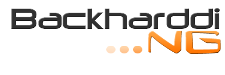
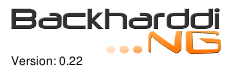
Eliminado botón de sincronización de la interfaz web. Se mantiene la selección de clientes al actualizarse la lista en la interfaz web. Se mantiene el scroll de la ventana de grupos al actualizarse la lista en la interfaz web.

Changed region(s): [[0.0311, 0.7467, 0.3733, 0.88]]

diff --git a/src/backhardding/html/monitor.js b/src/backhardding/html/monitor.js
@@ -25,71 +25,70 @@ var groupStore = new Ext.data.GroupingStore({
     sortInfo: { fieldname: 'group', direction: 'ASC' }
 });
 
-Ext.onReady(function() {
-    var clientView = new Ext.DataView({
-        cls: 'client-view',
-        tpl: '<tpl for=".">' +
-        		'<tpl if="status == \'Conectado\'">' +
-        			'<div class="client_source"><img class="icon_client" src="resources/images/default/s.gif"/>{name}</div>' +
-        		'</tpl>' +
-        		'<tpl if="status != \'Conectado\'">' +
-        			'<div class="client_source client_disconnected"><img class="icon_client" src="resources/images/default/s.gif"/>{name}</div>' +
-        		'</tpl>' +
-        	 '</tpl>',
-    	itemSelector: "div.client_source",
-    	selectedClass: "client_selected",
-    	overClass: "client_over",   
-    	singleSelect: false,
-    	multiSelect: true,
-        store: clientStore,
-        listeners: {
-    		contextmenu: onClientContextMenu,
-            render: initializeClientDragZone,
-        },
-    });
-    
-    var groupGrid = new Ext.grid.GridPanel({
-        title: 'Grupos',
-        region: 'center',
-        margins: '0 5 5 0',
-        columns: [{
-            dataIndex: 'name',
-            header: 'Nombre',
-            width: 50
-        }, {
-            dataIndex: 'ip',
-            header: 'Direccion IP',
-            width: 50
-        }, {
-            dataIndex: 'group',
-            header: 'Grupo',
-            width: 50,
-            hidden: true,
-            hiddeable: false,
-        }, {
-            dataIndex: 'status',
-            header: 'Estado',
-            width: 50
-        }, {
-            dataIndex: 'msg',
-            header: 'Mensaje',
-            width: 200,
-        }],
-        view: new Ext.grid.GroupingView({
-            forceFit:true,
-            groupTextTpl: '{text} ({[values.rs.length]} {[values.rs.length > 1 ? "Miembros" : "Miembro"]})'
-        }),
-        store: groupStore,
-        listeners: {
-            render: initializeClientDropZone,
-    		rowcontextmenu: onGroupRowContextMenu,
-        },
-	    iconCls: 'icon-grid',
-	    cls: 'group-member'
-    });
-    
+var clientView = new Ext.DataView({
+    cls: 'client-view',
+    tpl: '<tpl for=".">' +
+    		'<tpl if="status == \'Conectado\'">' +
+    			'<div class="client_source"><img class="icon_client" src="resources/images/default/s.gif"/>{name}</div>' +
+    		'</tpl>' +
+    		'<tpl if="status != \'Conectado\'">' +
+    			'<div class="client_source client_disconnected"><img class="icon_client" src="resources/images/default/s.gif"/>{name}</div>' +
+    		'</tpl>' +
+    	 '</tpl>',
+	itemSelector: "div.client_source",
+	selectedClass: "client_selected",
+	overClass: "client_over",   
+	singleSelect: false,
+	multiSelect: true,
+    store: clientStore,
+    listeners: {
+		contextmenu: onClientContextMenu,
+        render: initializeClientDragZone,
+    },
+});
 
+var groupGrid = new Ext.grid.GridPanel({
+    title: 'Grupos',
+    region: 'center',
+    margins: '0 5 5 0',
+    columns: [{
+        dataIndex: 'name',
+        header: 'Nombre',
+        width: 50
+    }, {
+        dataIndex: 'ip',
+        header: 'Direccion IP',
+        width: 50
+    }, {
+        dataIndex: 'group',
+        header: 'Grupo',
+        width: 50,
+        hidden: true,
+        hiddeable: false,
+    }, {
+        dataIndex: 'status',
+        header: 'Estado',
+        width: 50
+    }, {
+        dataIndex: 'msg',
+        header: 'Mensaje',
+        width: 200,
+    }],
+    view: new Ext.grid.GroupingView({
+        forceFit: true,
+        scrollToTop: Ext.emptyFn,
+        groupTextTpl: '{text} ({[values.rs.length]} {[values.rs.length > 1 ? "Miembros" : "Miembro"]})'
+    }),
+    store: groupStore,
+    listeners: {
+        render: initializeClientDropZone,
+		rowcontextmenu: onGroupRowContextMenu,
+    },
+	iconCls: 'icon-grid',
+	cls: 'group-member'
+});
     
+Ext.onReady(function() {
     new Ext.Viewport({
         layout: 'border',
         items: [{
@@ -133,18 +132,6 @@ Ext.onReady(function() {
 	            	},
 	            xtype: 'button'
 	            },
-		        {
-				text: 'Sincronizar Clientes',
-				autoWidth: true,
-				xtype: 'button',
-				listeners: {
-					click: function() {
-						Ext.Ajax.request({
-					                url: 'control/sync_clients'
-					        });
-					}
-				}
-			}
 		    ]
         	}, {
 	            title: 'Clientes',
@@ -172,6 +159,7 @@ function arrancarEquipos(item,checked){
 }
 
 function processData(data){
+    clientsSelected = clientView.getSelectedRecords();
     clients = [];
     groups = [];
     for (i=0; i < data.length; i++) {
@@ -215,6 +203,7 @@ function processData(data){
     		clientStore.remove(record);
     }
     clientStore.sort('name','ASC');
+    clientView.select(clientsSelected);
     groupStore.sort('name','ASC');
     for (i=0; i < groupStore.getCount(); i++) {
     	record = groupStore.getAt(i);

diff --git a/updateversioninlogo.py b/updateversioninlogo.py
@@ -1,0 +1,12 @@
+#!/usr/bin/python
+
+import Image, ImageFont, ImageDraw
+
+version = open('debian/changelog').readline().partition('(')[2].partition(')')[0]
+font = ImageFont.truetype("/usr/share/fonts/truetype/freefont/FreeSans.ttf", 12)
+fontcolor = '#000000'
+im = Image.open("src/backhardding/html/media/banner_left.tpl.png")
+draw = ImageDraw.Draw(im)
+draw.text((11, 53), "Version: " + version, font=font, fill=fontcolor)
+del draw
+im.save('src/backhardding/html/media/banner_left.png')
